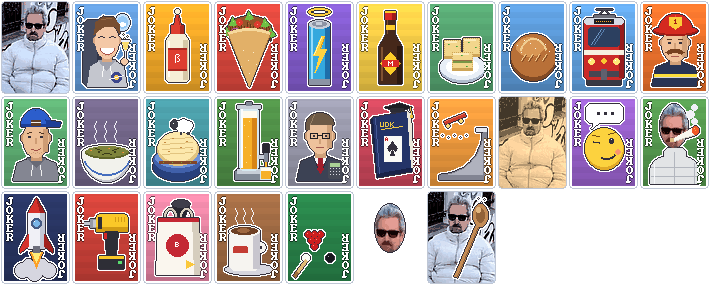
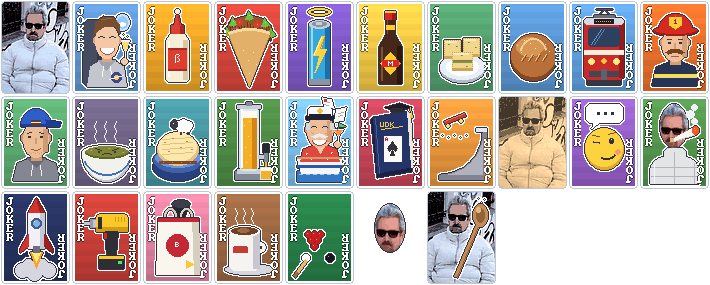
New Jochen art: grinning old captain on his yacht, Steuererklärung blowing away

Changed region(s): [[0.4028, 0.3368, 0.4958, 0.6737]]

diff --git a/tools/jochen_art.py b/tools/jochen_art.py
@@ -1,0 +1,69 @@
+"""Jochen: an older man grinning on his yacht, cocktail in hand, while his Steuererklärung
+blows away in the wind. Writes jochen_1x.png / jochen_preview.png into the current directory.
+"""
+import os
+import sys
+from PIL import Image, ImageDraw
+
+sys.path.insert(0, os.path.dirname(os.path.abspath(__file__)))
+from food_art import render  # noqa: E402
+from batch2_art import DARK  # noqa: E402
+
+
+def jochen(d):
+    # sea + yacht
+    d.rectangle((13, 76, 58, 86), fill=(52, 120, 196))
+    for x in range(15, 57, 7):
+        d.line((x, 79, x + 3, 79), fill=(150, 200, 240))
+    d.polygon([(13, 64), (58, 64), (54, 78), (17, 78)], fill=(246, 246, 250))   # hull
+    d.rectangle((13, 70, 58, 72), fill=(40, 90, 170))                          # stripe
+    # Hawaiian shirt
+    shirt, flower = (226, 70, 60), (255, 220, 90)
+    d.polygon([(16, 66), (19, 54), (29, 50), (43, 50), (52, 54), (55, 66)], fill=shirt)
+    d.polygon([(31, 50), (36, 58), (41, 50)], fill=(240, 200, 170))             # open collar
+    for x, y in ((22, 58), (47, 57), (27, 63), (43, 63)):
+        d.point((x, y), fill=flower)
+        d.point((x + 1, y), fill=flower)
+        d.point((x, y + 1), fill=(255, 255, 255))
+    d.line((13, 62, 58, 62), fill=(200, 160, 110), width=2)                     # wooden railing
+    # head
+    skin, skin_s = (240, 190, 150), (212, 156, 118)
+    d.ellipse((21, 30, 25, 38), fill=skin_s)                                    # ears
+    d.ellipse((46, 30, 50, 38), fill=skin_s)
+    d.ellipse((23, 20, 48, 52), fill=skin)                                      # face
+    d.rectangle((43, 26, 47, 46), fill=skin_s)
+    d.rectangle((22, 28, 25, 34), fill=(214, 214, 220))                         # grey sideburns
+    d.rectangle((46, 28, 49, 34), fill=(214, 214, 220))
+    d.line((27, 30, 31, 29), fill=(190, 190, 196))                              # bushy grey brows
+    d.line((39, 29, 43, 30), fill=(190, 190, 196))
+    d.arc((27, 31, 32, 35), 200, 340, fill=DARK)                                # happy squint
+    d.arc((38, 31, 43, 35), 200, 340, fill=DARK)
+    d.line((27, 37, 29, 38), fill=skin_s)                                       # laugh lines
+    d.line((43, 37, 41, 38), fill=skin_s)
+    d.chord((28, 40, 42, 50), 0, 180, fill=(255, 255, 255))                     # big grin
+    d.arc((28, 40, 42, 50), 0, 180, fill=(160, 70, 60))
+    d.polygon([(27, 41), (35, 38), (43, 41), (39, 43), (35, 41), (31, 43)], fill=(236, 236, 240))  # white moustache
+    # captain's hat
+    d.rounded_rectangle((24, 12, 47, 22), 3, fill=(250, 250, 252))
+    d.rectangle((22, 21, 49, 24), fill=(30, 34, 50))                            # brim
+    d.rectangle((25, 19, 46, 20), fill=(30, 34, 50))                            # band
+    d.ellipse((33, 13, 38, 18), fill=(240, 196, 60))                            # gold badge
+    # cocktail in the raised hand
+    d.ellipse((50, 46, 56, 52), fill=skin)
+    d.polygon([(49, 34), (59, 34), (54, 41)], fill=(250, 250, 255))             # glass
+    d.polygon([(50, 35), (58, 35), (54, 40)], fill=(255, 140, 80))              # drink
+    d.line((54, 41, 54, 47), fill=(250, 250, 255))
+    d.polygon([(55, 28), (61, 31), (55, 31)], fill=(80, 200, 120))              # umbrella
+    d.line((55, 31, 53, 35), fill=(140, 100, 60))
+    # the Steuererklärung blowing away
+    for (x, y, tilt) in ((38, 2, 2), (52, 14, -2)):
+        d.polygon([(x, y), (x + 9, y + tilt), (x + 9 + tilt, y + 11), (x + tilt, y + 11 - tilt)], fill=(250, 250, 244))
+        d.line((x + 2, y + 4, x + 7, y + 4 + tilt // 2), fill=(170, 170, 180))
+        d.line((x + 2, y + 7, x + 6, y + 7 + tilt // 2), fill=(170, 170, 180))
+    d.rectangle((40, 4, 42, 6), fill=(200, 50, 50))                            # red 'tax office' stamp
+
+
+if __name__ == '__main__':
+    card = render(jochen, (120, 190, 235))
+    card.save('jochen_1x.png')
+    card.resize((71 * 5, 95 * 5), Image.NEAREST).save('jochen_preview.png')
